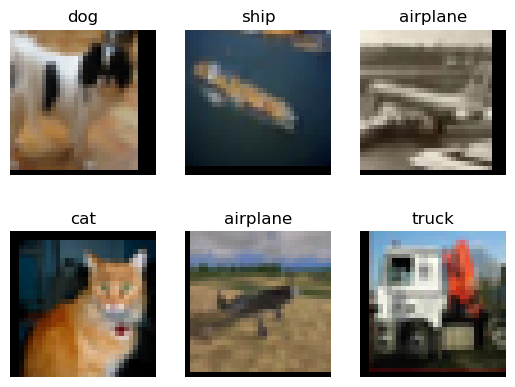
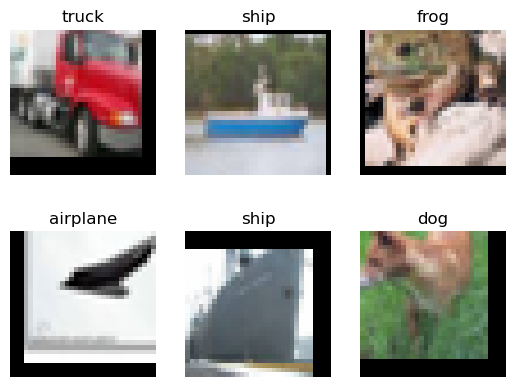
modify formula of Normalize in beginner/transforms and target transform in application/.../cv/resnet50 for both Chinese and English ver

diff --git a/tutorials/application/source_en/cv/resnet50.md b/tutorials/application/source_en/cv/resnet50.md
@@ -23,18 +23,19 @@ In ResNet, a residual network is proposed to alleviate the degradation problem, 
 ```python
 from download import download
 
-url = "http://www.cs.toronto.edu/~kriz/cifar-10-binary.tar.gz"
+url = "https://mindspore-website.obs.cn-north-4.myhuaweicloud.com/notebook/datasets/cifar-10-binary.tar.gz"
 
 download(url, "./datasets-cifar10-bin", kind="tar.gz")
 ```
 
 ```tex
 Creating data folder...
-Downloading data from http://www.cs.toronto.edu/~kriz/cifar-10-binary.tar.gz (162.2 MB)
+Downloading data from https://mindspore-website.obs.cn-north-4.myhuaweicloud.com/notebook/datasets/cifar-10-binary.tar.gz (162.2 MB)
 
-file_sizes: 100%|████████████████████████████| 170M/170M [00:26<00:00, 6.38MB/s]
+file_sizes: 100%|████████████████████████████| 170M/170M [00:08<00:00, 20.6MB/s]
 Extracting tar.gz file...
 Successfully downloaded / unzipped to ./datasets-cifar10-bin
+'./datasets-cifar10-bin'
 ```
 
 The directory structure of the CIFAR-10 dataset file is as follows:
@@ -57,9 +58,11 @@ Then, the `mindspore.dataset.Cifar10Dataset` interface is used to load the datas
 ```python
 import mindspore.dataset as ds
 import mindspore.dataset.vision as vision
+import mindspore.dataset.transforms as transforms
 import mindspore as ms
 import numpy as np
 
+from mindspore import dtype as mstype
 from mindspore import nn, ops
 
 
@@ -90,7 +93,7 @@ def create_dataset_cifar10(dataset_dir, usage, resize, batch_size, workers):
         vision.HWC2CHW()
     ]
 
-    target_trans = [(lambda x: np.array([x]).astype(np.int32)[0])]
+    target_trans = transforms.TypeCast(mstype.int32)
 
     # Data mapping operation
     data_set = data_set.map(
@@ -163,7 +166,7 @@ plt.show()
 ```
 
 ```text
-Image shape: (6, 3, 32, 32), Label: [5 8 0 3 0 9]
+Image shape: (6, 3, 32, 32), Label: [9 8 6 0 8 5]
 ```
 
 ![](images/output_6_1.png)

diff --git a/tutorials/source_en/beginner/transforms.md b/tutorials/source_en/beginner/transforms.md
@@ -132,7 +132,7 @@ The `Normalize` transform is used for normalization of the input image and consi
 - std: the standard deviation of each channel in the image.
 - is_hwc: whether the format of input image is (height, width, channel) or (channel, height, width).
 
-Each channel of the image will be adjusted according to `mean` and `std`, and the formula is $output_{c} = (input_{c} - \frac{mean_{c}}{std_{c}})$, where $c$ represents the channel index.
+Each channel of the image will be adjusted according to `mean` and `std`, and the formula is $output_{c} = \frac{input_{c} - mean_{c}}{std_{c}}$, where $c$ represents the channel index.
 
 ```python
 normalize = vision.Normalize(mean=(0.1307,), std=(0.3081,))
